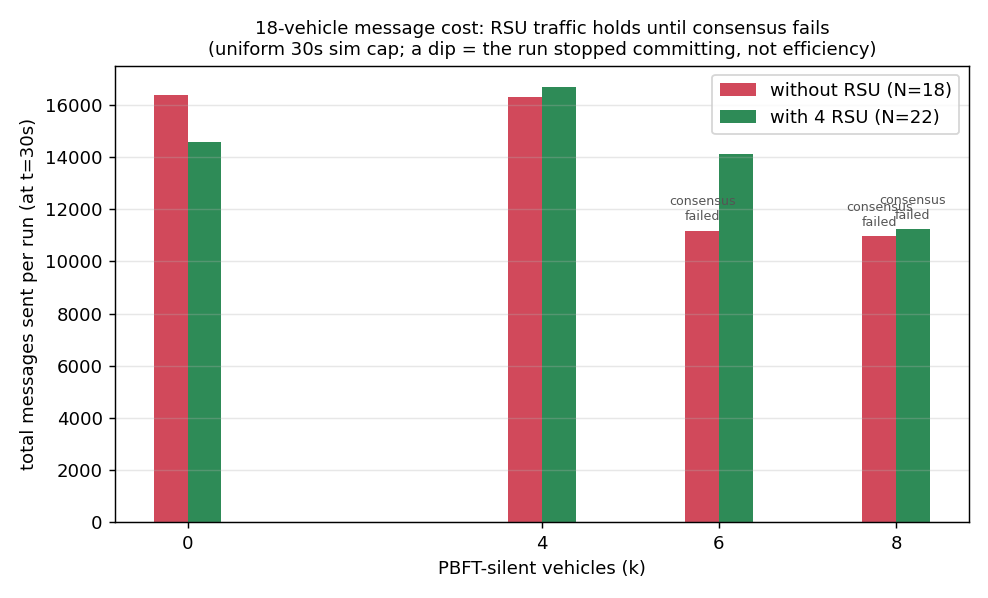
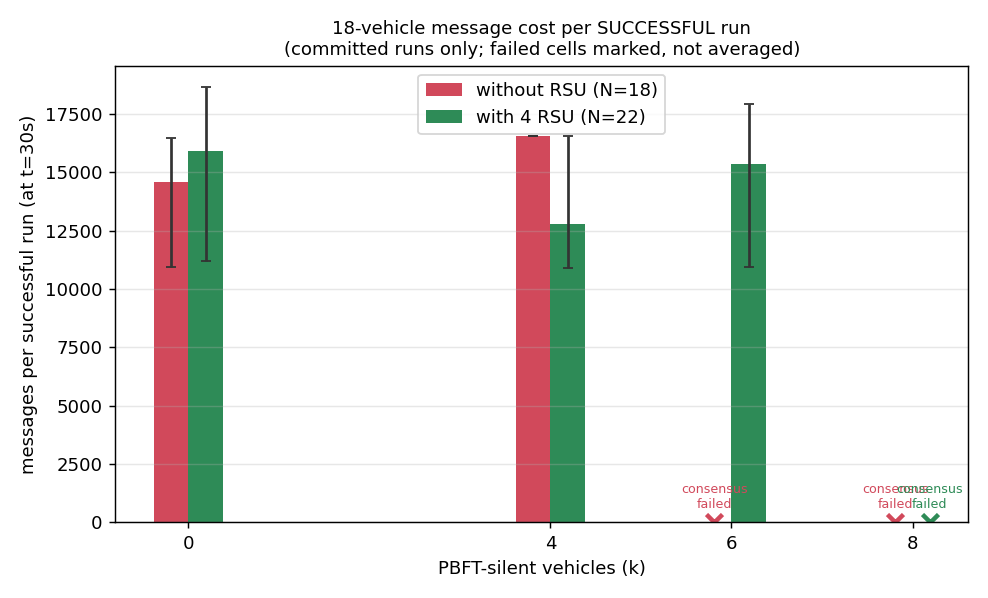
Fix scaling + 18-veh message plots: cost per SUCCESSFUL run (same fix as 4-veh)
Both message plots had the same blend-across-outcomes flaw as the 4-veh overhead:
they averaged committed and failed runs into one bar, producing meaningless
intermediate values (a failed run sends fewer messages because it collapsed, not
because it is cheaper).

analyze_scaling.py + analyze_msg.py now average messages over COMMITTED runs only.
analyze_msg.py additionally marks cells with zero committed runs as "consensus
failed" (X at y=0) instead of a bar, and draws min-max error bars. Re-ran both:
scaling at 3 reps, 18-veh at 3 reps with an 800s timeout (the 18-veh ON runs take
~700s wall to reach the 30s sim cap; shorter timeouts killed finish() before it
emitted Messages_Sent, giving msgs=0 / corrupt partials).

Results now read honestly: scaling message cost is ~flat whether at k=0 or the fault
frontier (a successful run does the full work either way) and scales super-linearly
with size; the 18-veh plot shows cost-per-committed-run with OFF failing at k>=6 and
ON at k=8, wide error bars reflecting the intermittent late-ambulance rollback.

diff --git a/benchmarks/rsu_ablation/analyze_msg.py b/benchmarks/rsu_ablation/analyze_msg.py
@@ -47,25 +47,28 @@ def main():
     ks = sorted({k for _, k in runs})
 
     def cell(lbl, k):
-        # only average runs that actually emitted the metric (clean finish)
+        # cost when it works: average messages over COMMITTED runs only (never blend a
+        # failed run into the cost). Returns (mean, n_committed, n_total, rate, lo, hi).
         recs = [r for r in runs.get((lbl, k), []) if r["emitted"]]
-        if not recs:
-            return None, 0, None
-        msgs = statistics.mean(r["msgs"] for r in recs)
-        commit_rate = statistics.mean(r["committed"] for r in recs)
-        return msgs, len(recs), commit_rate
+        ntot = len(recs)
+        rate = statistics.mean(r["committed"] for r in recs) if recs else None
+        ok = [r["msgs"] for r in recs if r["committed"]]
+        if not ok:
+            return None, 0, ntot, rate, None, None
+        return statistics.mean(ok), len(ok), ntot, rate, min(ok), max(ok)
 
-    print("\n=== 18-veh messages per run (clean-finish only) ===")
-    print(f"{'k':>2} │ {'OFF msgs (n, commit%)':^26} │ {'ON msgs (n, commit%)':^26}")
-    print("─" * 62)
+    print("\n=== 18-veh messages per COMMITTED run ===")
+    print(f"{'k':>2} │ {'OFF msgs (ncommit, rate)':^28} │ {'ON msgs (ncommit, rate)':^28}")
+    print("─" * 66)
     rows = []
     for k in ks:
-        om, on_, oc = cell("OFF", k)
-        nm, nn, nc = cell("ON", k)
+        om, onk, ont, oc, olo, ohi = cell("OFF", k)
+        nm, nnk, nnt, nc, nlo, nhi = cell("ON", k)
         f = lambda v, p="{:.0f}": "n/a" if v is None else p.format(v)
-        print(f"{k:>2} │ OFF {f(om):>6} (n={on_}, {f(oc,'{:.0%}')})   │ "
-              f"ON {f(nm):>6} (n={nn}, {f(nc,'{:.0%}')})")
-        rows.append(dict(k=k, off=om, on=nm, offc=oc, onc=nc))
+        print(f"{k:>2} │ OFF {f(om):>6} (n={onk}/{ont}, {f(oc,'{:.0%}')})   │ "
+              f"ON {f(nm):>6} (n={nnk}/{nnt}, {f(nc,'{:.0%}')})")
+        rows.append(dict(k=k, off=om, on=nm, offc=oc, onc=nc,
+                         off_lo=olo, off_hi=ohi, on_lo=nlo, on_hi=nhi))
 
     try:
         import matplotlib; matplotlib.use("Agg")
@@ -76,23 +79,27 @@ def main():
     xs = [r["k"] for r in rows]
     w = 0.38
     fig, ax = plt.subplots(figsize=(7.6, 4.6))
-    ob = ax.bar([x - w/2 for x in xs], [r["off"] or 0 for r in rows], w,
-                label="without RSU (N=18)", color="#d1495b")
-    nb = ax.bar([x + w/2 for x in xs], [r["on"] or 0 for r in rows], w,
-                label="with 4 RSU (N=22)", color="#2e8b57")
-    # annotate bars where consensus FAILED — that is what causes the message dip
-    for r in rows:
-        for val, xoff, rate in ((r["off"], -w/2, r["offc"]), (r["on"], w/2, r["onc"])):
-            if val is not None and rate is not None and rate < 0.5:
-                ax.annotate("consensus\nfailed", xy=(r["k"] + xoff, val),
-                            xytext=(0, 4), textcoords="offset points",
-                            ha="center", va="bottom", fontsize=7, color="#555")
+    def draw(side, mkey, lokey, hikey, color, label):
+        drew = False
+        for r in rows:
+            x = r["k"] + side*w/2
+            m = r[mkey]
+            if m is not None:
+                yerr = [[m - r[lokey]], [r[hikey] - m]]
+                ax.bar(x, m, w, color=color, label=(label if not drew else None),
+                       yerr=yerr, capsize=3, ecolor="#333"); drew = True
+            else:  # no committed run at this k → mark failure, no bar
+                ax.plot(x, 0, marker="x", color=color, ms=9, mew=2.5)
+                ax.annotate("consensus\nfailed", xy=(x, 0), xytext=(0, 6),
+                            textcoords="offset points", ha="center", va="bottom",
+                            fontsize=7, color=color)
+    draw(-1, "off", "off_lo", "off_hi", "#d1495b", "without RSU (N=18)")
+    draw(+1, "on",  "on_lo",  "on_hi",  "#2e8b57", "with 4 RSU (N=22)")
     ax.set_xlabel("PBFT-silent vehicles (k)")
-    ax.set_ylabel("total messages sent per run (at t=30s)")
-    ax.set_title("18-vehicle message cost: RSU traffic holds until consensus fails\n"
-                 "(uniform 30s sim cap; a dip = the run stopped committing, not efficiency)",
-                 fontsize=10)
-    ax.set_xticks(xs); ax.legend(); ax.grid(alpha=.3, axis="y")
+    ax.set_ylabel("messages per successful run (at t=30s)")
+    ax.set_title("18-vehicle message cost per SUCCESSFUL run\n"
+                 "(committed runs only; failed cells marked, not averaged)", fontsize=10)
+    ax.set_xticks(xs); ax.set_ylim(bottom=0); ax.legend(); ax.grid(alpha=.3, axis="y")
     fig.tight_layout()
     out = os.path.join(FIGS, "18veh_msg_cost.png")
     fig.savefig(out, dpi=130)

diff --git a/benchmarks/rsu_ablation/analyze_scaling.py b/benchmarks/rsu_ablation/analyze_scaling.py
@@ -54,7 +54,9 @@ def main():
         return (statistics.mean(r["committed"] for r in recs), len(recs)) if recs else (None, 0)
 
     def msgs(arm, V, k):
-        recs = [r for r in runs.get((arm, V, k), []) if r["emitted"]]
+        # cost when it works: average messages over COMMITTED runs only, never blend
+        # a failed run (which sends less because it collapsed) into the cost.
+        recs = [r for r in runs.get((arm, V, k), []) if r["emitted"] and r["committed"]]
         return statistics.mean(r["msgs"] for r in recs) if recs else None
 
     print("\n=== Scaling study: consensus rate + messages vs vehicle count ===")
@@ -132,8 +134,9 @@ def main():
         ys = series(arm, which, "msgs")
         ax.plot(Vs, [y if y is not None else float("nan") for y in ys],
                 mk+ls, color=col, label=lab, alpha=0.9)
-    ax.set_xlabel("vehicles at intersection"); ax.set_ylabel("total messages sent per run")
-    ax.set_title("Message cost vs intersection size\n(dashed = no faults, solid = at fault frontier)", fontsize=11)
+    ax.set_xlabel("vehicles at intersection"); ax.set_ylabel("messages per successful run")
+    ax.set_title("Message cost vs intersection size (committed runs only)\n"
+                 "(dashed = no faults, solid = at fault frontier; gap = no run committed)", fontsize=10)
     ax.set_xticks(Vs); ax.legend(fontsize=8); ax.grid(alpha=.3)
     fig.tight_layout(); fig.savefig(os.path.join(FIGS,"scaling_msgs.png"), dpi=130)
     print(f"\nReport: {os.path.join(FIGS,'scaling_report.md')}")

diff --git a/benchmarks/rsu_ablation/figures/scaling_report.md b/benchmarks/rsu_ablation/figures/scaling_report.md
@@ -1,0 +1,14 @@
+# Scaling study — consensus rate & message cost vs intersection size
+
+4/8/12/16 vehicles, with vs without 4 RSU units, at k=0 (min) and k=frontier (max = N−quorum silent vehicles). Fast channel, 5 ms poll, hard sim-time cap so Messages_Sent (finish()-only) is emitted.
+
+| V | arm | k_min | rate@min | msgs@min | k_max | rate@max | msgs@max |
+|---|---|---|---|---|---|---|---|
+| 4 | OFF | 0 | 100% | 942 | 1 | 100% | 932 |
+| 4 | ON | 0 | 100% | 1174 | 3 | 100% | 1164 |
+| 8 | OFF | 0 | 100% | 3220 | 3 | 67% | 3150 |
+| 8 | ON | 0 | 100% | 3441 | 5 | 67% | 3299 |
+| 12 | OFF | 0 | 100% | 6320 | 5 | 67% | 6176 |
+| 12 | ON | 0 | 100% | 7530 | 5 | 67% | 7442 |
+| 16 | OFF | 0 | 100% | 11585 | 5 | 67% | 11617 |
+| 16 | ON | 0 | 100% | 12632 | 7 | 33% | 12308 |
